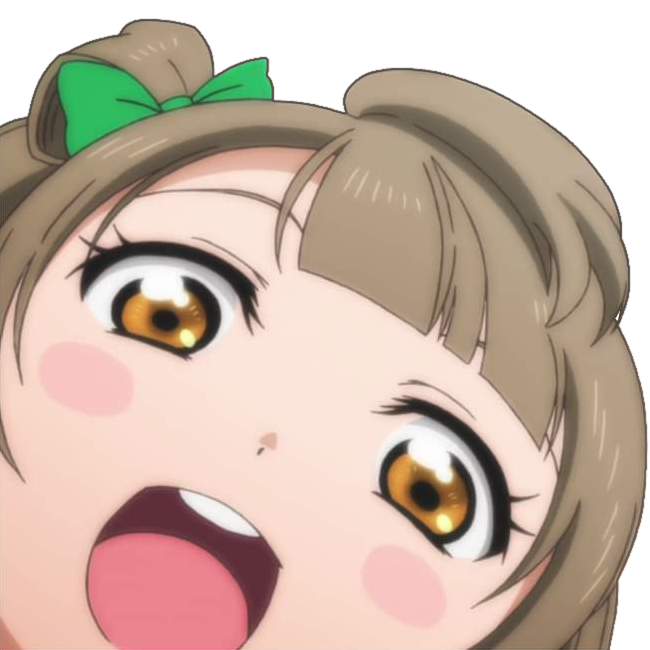
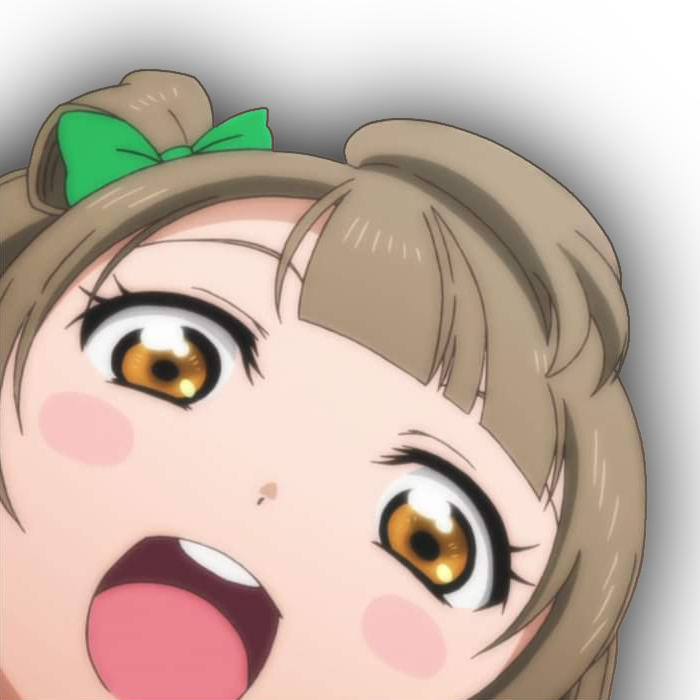
Kotobomb mode: add a shadow

diff --git a/src/modules/games/game-special-kotobomb.ts b/src/modules/games/game-special-kotobomb.ts
@@ -10,8 +10,8 @@ export const stacked = false;
 export const hasAltFinished = true;
 export const forceAltFinished = true;
 
-const SIZES = [700, 680, 650, 580, 500, 400];
-const BIRB_SIZE = 650; // size in pixels of kotobomb.png
+const SIZES = [750, 730, 700, 650, 550, 450];
+const BIRB_SIZE = 700; // size in pixels of kotobomb.png
 
 export async function getGameInstance(_day: number, _album: AlbumInfo, _image: Image, scaledImage: Canvas): Promise<GameInstance> {
     const birbImage = await loadImage("assets/kotobomb.png");
